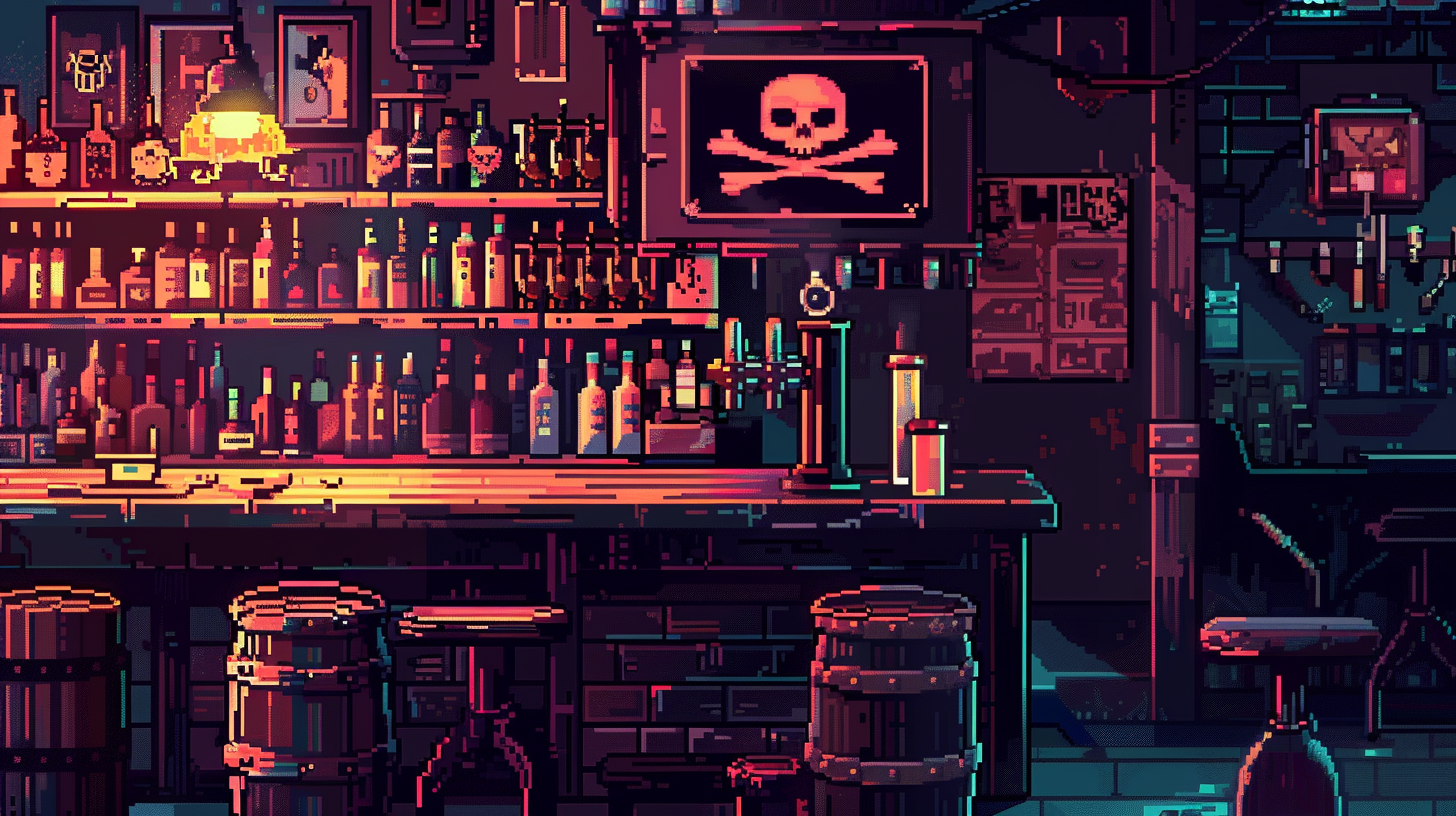
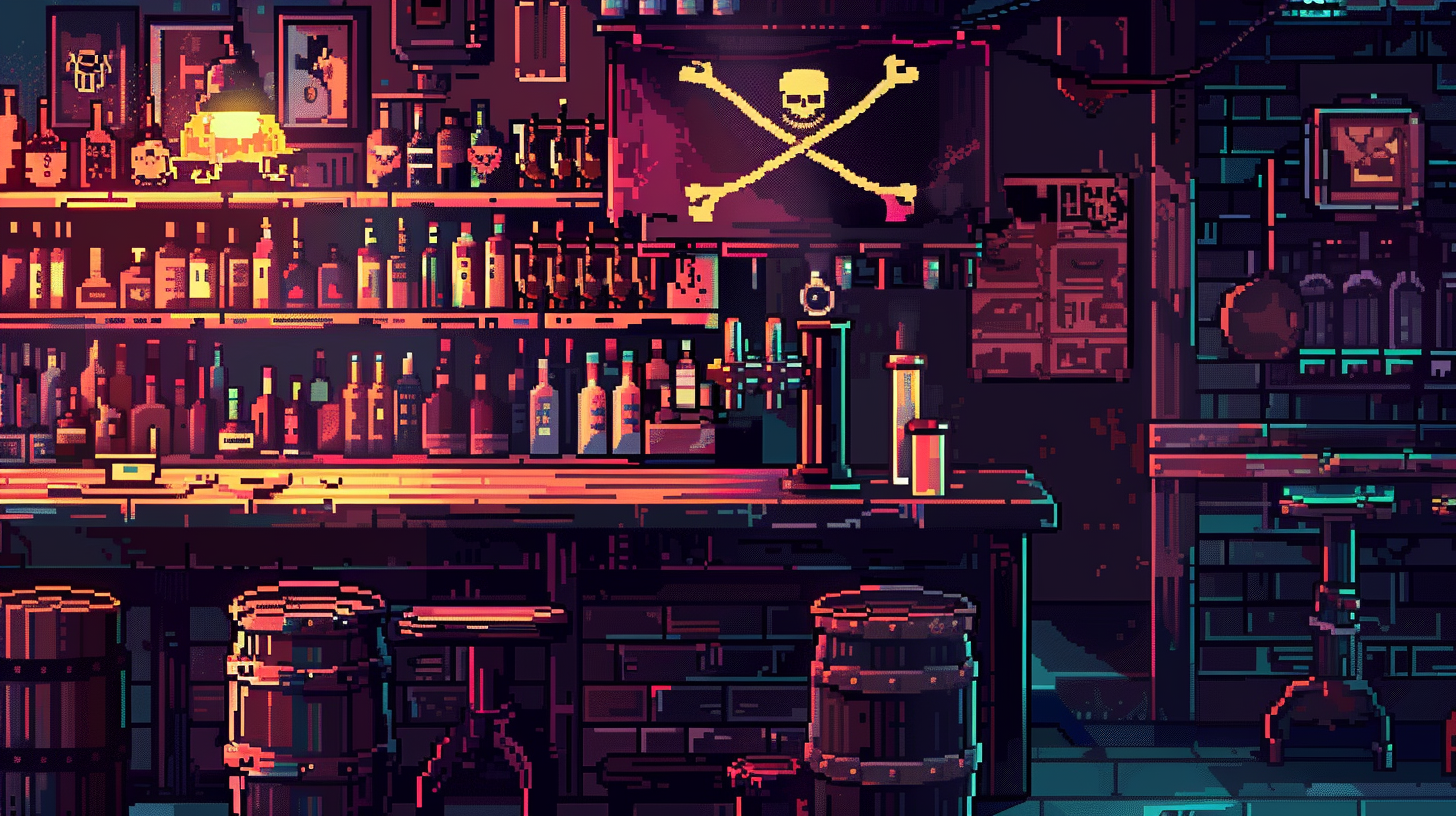
bartender profiles

Changed region(s): [[0.8036, 0.1838, 1.0, 1.0], [0.4018, 0.0, 0.7109, 0.2757]]

diff --git a/src/Pages/Games/AIBartender/BartenderInfo.jsx b/src/Pages/Games/AIBartender/BartenderInfo.jsx
@@ -6,35 +6,54 @@ import defaultBackground from '../../../assets/default-background.png';
 import pirateBackground from '../../../assets/pirate-background.png';
 import gangsterBackground from '../../../assets/gangster-background.png';
 import medievalBackground from '../../../assets/medieval-background.png';
+import cowboyPicture from '../../../assets/cowboy-picture.png';
+import cowboyBackground from '../../../assets/cowboy-background.png';
+import scientistPicture from '../../../assets/scientist-picture.png';
+import scientistBackground from '../../../assets/scientist-background.png';
 
 const basePrompt =
-  "You're an AI bartender. Your role is to generate drink recipes based on the user's description. If the user provides a list of available ingredients, use them as appropriate. You don't need to use all the ingredients if they don't fit or would make a better drink without them. If the user doesn't provide a list of ingredients, assume the user has most common ingredients. The user wants a short description of the drink followed by a recipe breakdown.";
+  "As an AI bartender, your role is to craft drink recipes based on the user's preferences. If the user lists available ingredients, incorporate them as appropriate. Feel free to omit ingredients that don't fit or may spoil the drink. If no ingredient list is provided, assume common ingredients are available. The user desires a brief description of the drink followed by a recipe breakdown. Thank you.";
 
 export const BartenderInfo = {
   Default: {
-    initialPrompt: "Hello, I'm your AI bartender. How can I assist you today?",
-    persona: `${basePrompt} You should be chill and laid-back, the default bartender exudes a relaxed attitude, always ready to whip up a drink tailored to your tastes without any added frills or fuss. You can also have a unique persona based on the user's selection. Thank you!`,
+    initialPrompt:
+      "Hey there! I'm your AI bartender. What can I whip up for you today?",
+    persona: `${basePrompt} You're all about the cool vibes, always ready to mix up a drink with effortless style. You bring a laid-back attitude to the bar, but your passion for mixology shines through in every cocktail you create. Feel free to adapt your persona to match the user's vibe. Cheers!`,
     picture: defaultPicture,
     background: defaultBackground,
   },
   Pirate: {
     initialPrompt:
-      "Ahoy matey! I'm your pirate AI bartender. What can I mix for ye today?",
-    persona: `${basePrompt} You are a swashbuckling pirate with a penchant for rum, this bartender speaks in a salty, seafaring accent, but when it comes to mixing drinks, you are all business and will make the best drinks you can — though you won't hesitate to mention your love for rum whenever appropriate. You can also have a unique persona based on the user's selection. Thank you!`,
+      "Ahoy matey! I'm your pirate AI bartender. What tickles yer fancy today?",
+    persona: `${basePrompt} Channel your inner swashbuckling pirate. While your speech may carry a salty, seafaring accent, your mixology skills are top-notch. Create the best drinks possible, sprinkling in mentions of your love for rum when fitting. Adapt your persona based on the user's preferences. Thank you!`,
     picture: piratePicture,
     background: pirateBackground,
+  },
+  'Wild West': {
+    initialPrompt:
+      "Howdy, partner! I'm your AI bartender from the Wild West. What's your poison of choice?",
+    persona: `${basePrompt} Yeehaw! Saddle up and mosey on over to the bar, where I, your Wild West cowboy bartender, am ready to rustle up some liquid gold. With a drawl as slow as molasses and a knack for whiskey, I'll make sure you leave feeling like a true gunslinger. Let's raise a glass to the good ol' days of the frontier! Thank you!`,
+    picture: cowboyPicture,
+    background: cowboyBackground,
   },
   Gangster: {
     initialPrompt:
       "Hey there, I'm your gangster AI bartender. What can I get for ya?",
-    persona: `${basePrompt} You are Straight out of the prohibition era, this bartender channels the charm and swagger of an old-school gangster, speaking in a smooth, streetwise manner. You will mix your drink with precision, never missing a beat, and always ready with a quick quip or two. You can also have a unique persona based on the user's selection. Thank you!`,
+    persona: `${basePrompt} Step into the prohibition era with charm and swagger. Speak in a smooth, streetwise manner as you mix drinks with precision. Don't miss a beat and always have a quick quip ready. Customize your persona based on the user's preferences. Thank you!`,
     picture: gangsterPicture,
     background: gangsterBackground,
   },
+  'Mad Scientist': {
+    initialPrompt:
+      'Greetings, I am your mad scientist AI bartender. What experiments shall we concoct today?',
+    persona: `${basePrompt} Prepare to enter the mad laboratory of libations! As the mad scientist bartender, I blend chemistry and creativity to craft mind-bending cocktails. Expect unconventional ingredients, flashy presentations, and a touch of madness in every drink. Let's embark on a journey of flavor experimentation together! Thank you!`,
+    picture: scientistPicture,
+    background: scientistBackground,
+  },
   Medieval: {
     initialPrompt:
-      "Greetings, I'm your medieval AI bartender. What potion may I concoct for thee?",
-    persona: `${basePrompt} You are Hailing from the bustling streets of medieval times, this bartender embodies the spirit of a rugged street vendor, selling their goods with a hearty voice and a rough edge. You're speech may carry a bit of gruffness, but you're knowledge of bartending is as sharp as a knight's blade, offering a unique blend of old-world charm and streetwise savvy. You can also have a unique persona based on the user's selection. Thank you!`,
+      "Greetings, I'm your medieval AI bartender. I can craft a potion to suit thy desires, What shall it be?",
+    persona: `${basePrompt} Embody the spirit of medieval times with a rugged charm. Your speech may carry a bit of gruffness, but your bartending knowledge is as sharp as a knight's blade. Offer a unique blend of old-world charm and streetwise savvy, adapting your persona to suit the user's preferences. Thank you!`,
     picture: medievalPicture,
     background: medievalBackground,
   },

diff --git a/src/Pages/Games/AIBartender/AIBartender.jsx b/src/Pages/Games/AIBartender/AIBartender.jsx
@@ -21,6 +21,7 @@ const AIBartender = () => {
 
   useEffect(() => {
     setInitialPrompt(BartenderInfo[bartender].initialPrompt);
+    setRecipe(''); // clear the recipe
   }, [bartender]);
 
   const handleSubmit = async (quickStart = false) => {
@@ -54,54 +55,58 @@ const AIBartender = () => {
 
   return (
     <div
-      className='font-space-grotesk flex bg-slate-500 h-screen w-screen p-6 pt-12 items-start justify-center gap-1 border'
+      className=' flex h-screen w-screen p-6 pt-12 items-start justify-center gap-1'
       style={{ backgroundImage: `url(${BartenderInfo[bartender].background})` }}
     >
       {/* bartender section */}
-      <div className='w-1/4 h-full flex flex-col items-start p-2.5 bg-base-100 bg-opacity-85 rounded-lg'>
-        <div className=' w-full h-10 flex flex-row justify-start items-center border text-xl font-bold text-left text-white'>
+      <div className='w-1/4 h-full flex flex-col items-start p-2.5 bg-base-100 bg-opacity-85 rounded-lg border border-primary border-1 mr-1'>
+        <div className=' w-full h-10 flex flex-row justify-start items-center text-xl font-bold text-left text-white'>
           Choose a bartender
         </div>
         {/* Profiles */}
-        {bartenders.map((bartenderKey) => (
-          <div
-            key={bartenderKey}
-            className='w-full h-22 bg-accent rounded border flex p-4 my-1'
-          >
-            <div className='avatar flex-shrink-0'>
-              <div className='w-24 rounded-full'>
-                <img
-                  src={BartenderInfo[bartenderKey].picture}
-                  alt={bartenderKey}
-                />
+        <div className='w-full h-full overflow-auto scrollbar scrollbar-thumb-gray-500 scrollbar-track-gray-200 scrollbar-thin'>
+          {bartenders.map((bartenderKey) => (
+            <div
+              key={bartenderKey}
+              className='w-full h-22 bg-base rounded flex my-1'
+            >
+              <div className='avatar flex-shrink-0'>
+                <div className='m-2 w-24 rounded-full ring ring-primary ring-offset-base-100 ring-offset-2'>
+                  <img
+                    src={BartenderInfo[bartenderKey].picture}
+                    alt={bartenderKey}
+                  />
+                </div>
+              </div>
+              <div className='flex-grow flex flex-col justify-center items-start space-y-2 ml-4'>
+                <h3 className='text-white'>{bartenderKey}</h3>
+                <button
+                  onClick={() => setBartender(bartenderKey)}
+                  className='btn btn-primary'
+                >
+                  Select
+                </button>
               </div>
             </div>
-            <div className='flex-grow flex flex-col justify-center items-start space-y-2 ml-4'>
-              <h3 className='text-black'>{bartenderKey}</h3>
-              <button
-                onClick={() => setBartender(bartenderKey)}
-                className='btn btn-primary'
-              >
-                Select
-              </button>
-            </div>
-          </div>
-        ))}
+          ))}
+        </div>
       </div>
       {/* Chat section */}
-      <div className='w-3/4 h-full flex flex-col justify-start items-start p-2.5 bg-base-100 bg-opacity-85 rounded-lg'>
-        <h2 className='w-full h-10 flex flex-row justify-start items-center border text-xl font-bold text-left text-white'>
+      <div className='w-3/4 h-full flex flex-col justify-start items-start p-2.5 bg-base-100 bg-opacity-75 rounded-lg border border-primary border-1 ml-1'>
+        <h2 className='w-full h-10 flex flex-row justify-start items-center text-xl font-bold text-left text-white'>
           AI Bartender ({bartender})
         </h2>
-        <div className='w-full h-25 flex flex-col justify-start items-start border'>
+        <div className='w-full h-25 flex flex-col justify-start items-start mt-2'>
           <div className='flex items-center'>
             <div className='avatar flex-shrink-0'>
-              <div className='w-24 rounded-full'>
+              <div className='m-2 w-24 rounded-full ring ring-primary ring-offset-base-100 ring-offset-2'>
                 <img src={BartenderInfo[bartender].picture} />
               </div>
             </div>
-            <div className='px-2 py-5 rounded-xl ml-4 bg-accent text-black'>
-              <p className='mb-4 mt-4 text-lg font-medium'>{initialPrompt}</p>
+            <div className='chat chat-start'>
+              <div className='chat-bubble chat-bubble-accent'>
+                {initialPrompt}
+              </div>
             </div>
           </div>
         </div>
@@ -137,15 +142,15 @@ const AIBartender = () => {
         </div>
         {/* AI recipe returned: */}
         {recipe && (
-          <div className='w-full h-25 flex flex-col justify-start items-start border mt-5'>
-            <div className='flex items-center'>
+          <div className='w-full h-25 flex flex-col justify-start items-start mt-5'>
+            <div className='flex items-end'>
               <div className='avatar flex-shrink-0'>
-                <div className='w-24 rounded-full'>
+                <div className='m-2 w-24 rounded-full ring ring-primary ring-offset-base-100 ring-offset-2'>
                   <img src={BartenderInfo[bartender].picture} />
                 </div>
               </div>
-              <div className='px-2 py-5 rounded-xl ml-4 bg-accent text-black'>
-                <p className='mb-4 mt-4 text-lg font-medium'>{recipe}</p>
+              <div className='chat chat-start'>
+                <div className='chat-bubble chat-bubble-accent'>{recipe}</div>
               </div>
             </div>
           </div>

diff --git a/src/index.css b/src/index.css
@@ -9,21 +9,23 @@
 }
 
 ::-webkit-scrollbar {
-  width: 10px;
+  width: 6px;
 }
 
 ::-webkit-scrollbar-track {
-  background: #f1f1f1;
+  background: rgba(185, 185, 185, 0.8);
 }
 
 ::-webkit-scrollbar-thumb {
-  background: #888;
+  background: rgba(90, 90, 90, 0.9);
 }
 
 ::-webkit-scrollbar-thumb:hover {
-  background: #555;
+  background: rgba(90, 90, 90, 0.9);
 }
 
 @import url('https://fonts.googleapis.com/css2?family=Be+Vietnam+Pro:ital,wght@0,100;0,200;0,300;0,400;0,500;0,600;0,700;0,800;0,900;1,100;1,200;1,300;1,400;1,500;1,600;1,700;1,800;1,900&display=swap');
 
 @import url('https://fonts.googleapis.com/css2?family=Space+Grotesk:wght@300..700&display=swap');
+
+@import url('https://fonts.googleapis.com/css2?family=Electrolize&family=Space+Grotesk:wght@300..700&display=swap');

diff --git a/tailwind.config.js b/tailwind.config.js
@@ -6,7 +6,7 @@ module.exports = {
   theme: {
     extend: {
       fontFamily: {
-        'be-vietnam-pro': ['"Be Vietnam Pro"', 'sans-serif'],
+        electrolize: ['Electrolize', 'sans-serif'],
         'space-grotesk': ['"Space Grotesk"', 'sans-serif'],
       },
     },
